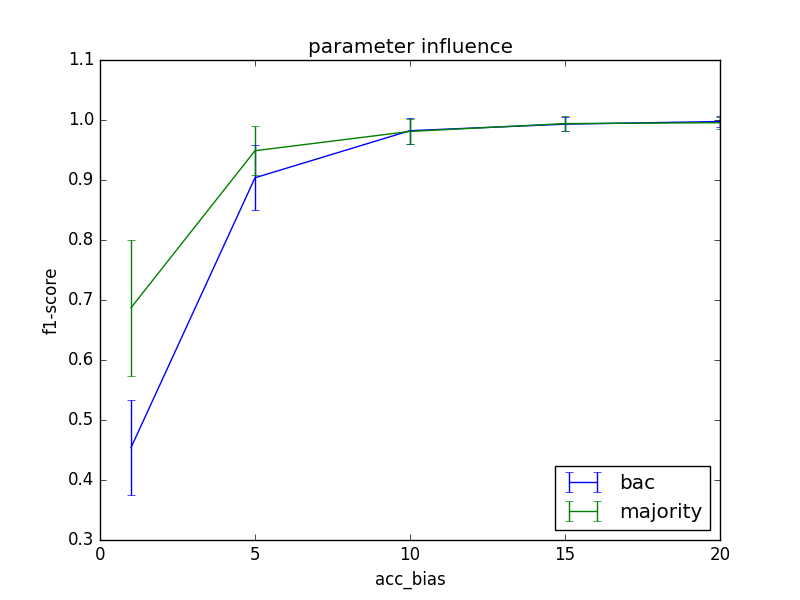
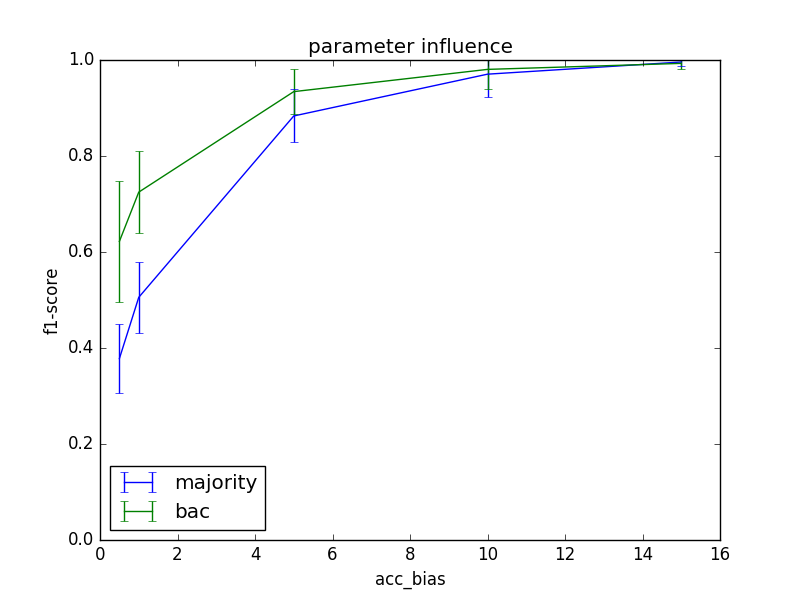
added new metrics and plots

diff --git a/src/evaluation/experiment.py b/src/evaluation/experiment.py
@@ -91,7 +91,7 @@ class Experiment(object):
         
     def single_run(self, param_values):
         
-        scores = np.zeros((param_values.shape[0], 4, len(self.method)))
+        scores = np.zeros((param_values.shape[0], 8, len(self.method)))
        
         for i in xrange(param_values.shape[0]):
             params = param_values[i,:]
@@ -105,16 +105,24 @@ class Experiment(object):
             if 'majority' in self.method:
                 mv = majority_voting.MajorityVoting(annotations, 3)
                 
-                agg,_ = mv.vote()
+                agg, probs = mv.vote()
                 
-                self.update_scores(scores, i, idx, agg, ground_truth)
+                self.update_scores(scores, i, idx, agg, ground_truth, probs)
                 idx += 1
             
             if 'clustering' in self.method:
                 cl = clustering.Clustering(ground_truth, annotations)
                 agg = cl.run()
+                
+                probs = np.zeros((ground_truth.shape[0], 3))
+                
+                for k in xrange(ground_truth.shape[0]):
+                    #print agg.shape
+                    probs[k,int(agg[k])] = 1
+                    
+                #print probs
             
-                self.update_scores(scores, i, idx, agg, ground_truth)
+                self.update_scores(scores, i, idx, agg, ground_truth, probs)
                 idx += 1
                 
             if 'mace' in self.method:
@@ -148,13 +156,14 @@ class Experiment(object):
                 doc_start = np.zeros((annotations.shape[0],1))
                 doc_start[0] = 1
                 
-                E_t = alg.run(annotations+1, doc_start)
-                
-                #print E_t,E_t.argmax(axis=1)
+                E_t, most_prob = alg.run(annotations+1, doc_start)
                 
                 agg = E_t.argmax(axis=1)
                 
-                self.update_scores(scores, i, idx, agg, ground_truth)
+                #print 'most_prob', most_prob
+                #print 'argmax', agg
+                #print np.where(agg!=most_prob)
+                self.update_scores(scores, i, idx, agg, ground_truth, E_t)
                 
                 #scores[i,0,idx] = skm.auc(ground_truth[:,1], agg)
                 idx += 1
@@ -163,15 +172,19 @@ class Experiment(object):
         return scores
     
     
-    def update_scores(self, scores, param_idx, method_idx, agg, ground_truth):
+    def update_scores(self, scores, param_idx, method_idx, agg, ground_truth, probs):
         
-        scores[param_idx, 1, method_idx],scores[param_idx, 2, method_idx],scores[param_idx, 3, method_idx],_ = skm.precision_recall_fscore_support(ground_truth[:,1], agg, average='macro')
         scores[param_idx, 0, method_idx] = skm.accuracy_score(ground_truth[:,1], agg)
+        scores[param_idx, 1, method_idx],scores[param_idx, 2, method_idx],scores[param_idx, 3, method_idx],_ = skm.precision_recall_fscore_support(ground_truth[:,1], agg, average='macro')
+        scores[param_idx, 4, method_idx] = skm.roc_auc_score(ground_truth[:,1]==0, agg==0)
+        scores[param_idx, 5, method_idx] = skm.roc_auc_score(ground_truth[:,1]==1, agg==1)
+        scores[param_idx, 6, method_idx] = skm.roc_auc_score(ground_truth[:,1]==2, agg==2)
+        scores[param_idx, 7, method_idx] = skm.log_loss(ground_truth[:,1], probs, eps=1e-100)
     
     
     def run(self, param_values, num_runs, show_plot=False, save_plot=False, save_results=False, output_dir='output/'):
         
-        results = np.zeros((param_values.shape[0], 4, len(self.method), num_runs))
+        results = np.zeros((param_values.shape[0], 8, len(self.method), num_runs))
         print 'Running experiment...'
         for i in xrange(num_runs):   
             print 'Run number:', i   
@@ -201,17 +214,20 @@ class Experiment(object):
         if save_plot and not os.path.exists(output_dir):
             os.makedirs(output_dir)
             
-        score_names = ['accuracy', 'precision','recall','f1-score']
+        score_names = ['accuracy', 'precision','recall','f1-score','auc-score (label 0)','auc-score (label 1)','auc-score (label 2)', 'cross-entropy-error']
             
-        for i in xrange(4):    
+        for i in xrange(len(score_names)):    
             for j in xrange(len(self.method)):
                 plt.errorbar(self.param_values[:, self.param_idx], np.mean(results[:,i,j,:], 1), yerr=np.std(results[:,i,j,:], 1), label=self.method[j])
+                
             
             plt.legend(loc=0)
         
             plt.title('parameter influence')
             plt.ylabel(score_names[i])
             plt.xlabel(self.param_names[self.param_idx])
+            
+            plt.ylim([0,np.max([1,np.max(results[:,i,:,:])])])
         
             if save_plot:
                 print 'Saving plot...'

diff --git a/src/algorithm/bac.py b/src/algorithm/bac.py
@@ -5,6 +5,7 @@ Created on Jan 28, 2017
 '''
 
 import numpy as np
+import Decoder
 from scipy.special import psi
 
 class BAC(object):
@@ -35,13 +36,13 @@ class BAC(object):
         self.nscores = L
         self.K = K
         
-        self.alpha0 = np.ones((self.L, self.nscores, self.nscores+1, self.K)) + np.eye(self.L)[:,:,np.newaxis,np.newaxis] # dims: previous_anno c[t-1], current_annoc[t], true_label[t], annoator k
+        self.alpha0 = np.ones((self.L, self.nscores, self.nscores+1, self.K)) + np.eye(self.L)[:,:,None,None] # dims: previous_anno c[t-1], current_annoc[t], true_label[t], annoator k
         self.nu0 = np.log(np.ones((L+1, L)))
         
         # initialise transition and confusion matrices
         self.lnA = np.log(np.ones((L+1, L))/L)
         
-        self.lnPi = np.log(self.alpha0 / np.sum(self.alpha0, 2)[:,:,np.newaxis,:])
+        self.lnPi = np.log(self.alpha0 / np.sum(self.alpha0, 2)[:,:,None,:])
         
             
     def run(self, C, doc_start):
@@ -75,11 +76,21 @@ class BAC(object):
             # update E_lnpi
             self.lnPi = calc_q_pi(alpha)
             
-        return self.q_t
+        return self.q_t, self.most_probable_sequence(C, doc_start)
     
             
     def converged(self):
         return (self.iter >= 10)
+    
+    
+    def most_probable_sequence(self, C, doc_start):
+    
+        dec = Decoder.Decoder(np.exp(self.lnA[-1,:])[:,None], np.exp(self.lnA[:-1,:]))
+                          
+        return dec.Decode(C, doc_start, self.lnPi)
+    
+        # TODO: implement! (if necessary)
+    
     
 def calc_q_A(E_t, nu0):
     nu = nu0 + np.reshape(np.sum(E_t,0), nu0.shape)
@@ -141,6 +152,12 @@ def expec_joint_t(lnR_, lnLambda, lnA, lnPi, C, doc_start):
     for t in xrange(T):
         for l in xrange(L):
             for l_next in xrange(L):
+                
+                if doc_start[t]:
+                    lnS[t, -1, l_next] += lnR_[t, l] + lnLambda[t, l_next] + lnA[l, l_next]
+                else:
+                    lnS[t, l, l_next] += lnR_[t, l] + lnLambda[t, l_next] + lnA[l, l_next]
+                    
                 for k in xrange(K):
                     
                     if doc_start[t]:
@@ -148,13 +165,13 @@ def expec_joint_t(lnR_, lnLambda, lnA, lnPi, C, doc_start):
                         flags[t, -1, l_next] = 1
                         if C[t,k]==0: # ignore unannotated tokens
                             continue
-                        lnS[t, -1, l_next] += lnR_[t, l] + lnLambda[t, l_next] + lnA[l, l_next] + lnPi[l, int(C[t,k])-1, -1, k]
+                        lnS[t, -1, l_next] += lnPi[l, int(C[t,k])-1, -1, k]
                     else:
                         
                         flags[t, l, l_next] = 1
                         if C[t,k]==0: # ignore unannotated tokens
                             continue
-                        lnS[t, l, l_next] += lnR_[t, l] + lnLambda[t, l_next] + lnA[l, l_next] + lnPi[l, int(C[t,k])-1, int(C[t-1,k])-1, k]
+                        lnS[t, l, l_next] += lnPi[l, int(C[t,k])-1, int(C[t-1,k])-1, k]
     
     #normalise and return  
     s = np.exp(lnS-np.max(lnS, 2)[:,:,None]) * flags         
@@ -257,14 +274,4 @@ def backward_pass(C, lnA, lnPi, doc_start, skip=True):
         norm_lambd = lambd/np.sum(lambd)
         lnLambda[t,:] = np.log(norm_lambd)               
   
-    return lnLambda    
-
-
-def most_probable_sequence(lnA, E_t):
-    
-    sequenceProbs = np.zeros(E_t.shape)
-    sequnceProbs = E_t
-    
-    # TODO: implement! (if necessary)
-    
-              
+    return lnLambda                

diff --git a/src/baselines/clustering.py b/src/baselines/clustering.py
@@ -68,15 +68,16 @@ class Clustering(object):
         
         
     def run(self):
-        # build function to minimise: negative f1-score of clustering results
-        f = lambda x: -skm.f1_score(self.run_kde(x[0], x[1]), self.ground_truth[:,1], average='macro')
+        
+        # build function to minimise: negative data-log-likelihood
+        f = lambda x: -self.calc_data_likelihood(x)
         
         # build optimisation constraint: bandwidth must be non-negative
-        cons = {'type':'ineq', 'fun':lambda x: x[0]}
+        #cons = {'type':'ineq', 'fun': lambda x: x - 1e-5}
         
-        opt = minimize(f, np.array([1.0, 0.001]), constraints=cons)
+        opt = minimize(f, .5)#, constraints=cons)
         
-        return self.run_kde(opt.x[0], opt.x[1])
+        return self.run_kde(opt.x, 0.001)
 
         
     def run_kde(self, bandwidth, threshold):
@@ -87,7 +88,7 @@ class Clustering(object):
             x = self.spans[self.spans[:,0]==doc][:,1:] 
             
             #print x
-            kde = KernelDensity(bandwidth, kernel='gaussian').fit(x)
+            kde = KernelDensity(np.exp(bandwidth), kernel='gaussian').fit(x)
             
             peaks = find_peaks(kde, self.doc_length, 0.5, threshold)
             
@@ -100,5 +101,19 @@ class Clustering(object):
                 result = np.append(result, iob, 0)
         
         return result
+    
+    def calc_data_likelihood(self, bandwidth):
+        
+        print bandwidth, np.exp(bandwidth)
+        
+        score = 0.0
+        
+        for doc in xrange(int(self.num_docs)):
+            x = self.spans[self.spans[:,0]==doc][:,1:] 
+            kde = KernelDensity(np.exp(bandwidth), kernel='gaussian').fit(x)
+            score += kde.score(x)
+            
+            
+        return score/self.num_docs
     
         

diff --git a/src/baselines/majority_voting.py b/src/baselines/majority_voting.py
@@ -59,7 +59,7 @@ class MajorityVoting(object):
                 else:
                     self.majority[i] = 1
                     
-        return self.majority, votes
+        return self.majority, (votes/np.sum(votes, axis=1)[:,None])
                     
                     
     def update_accuracies(self):
